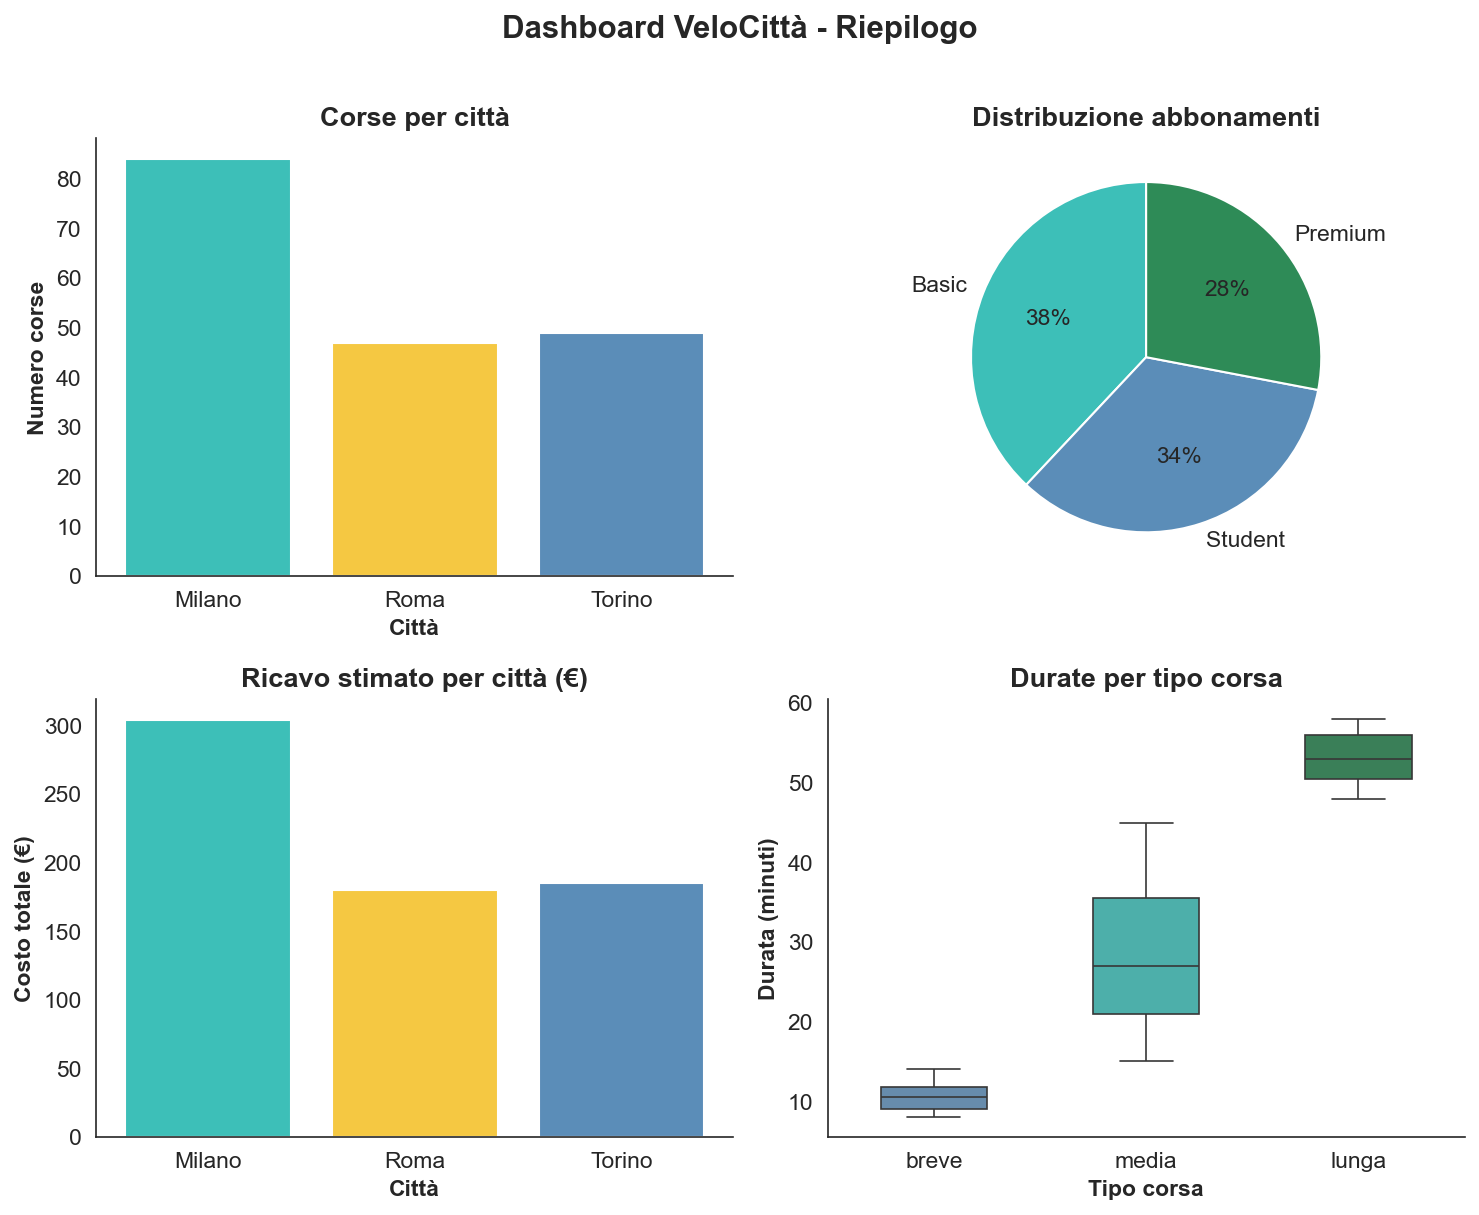
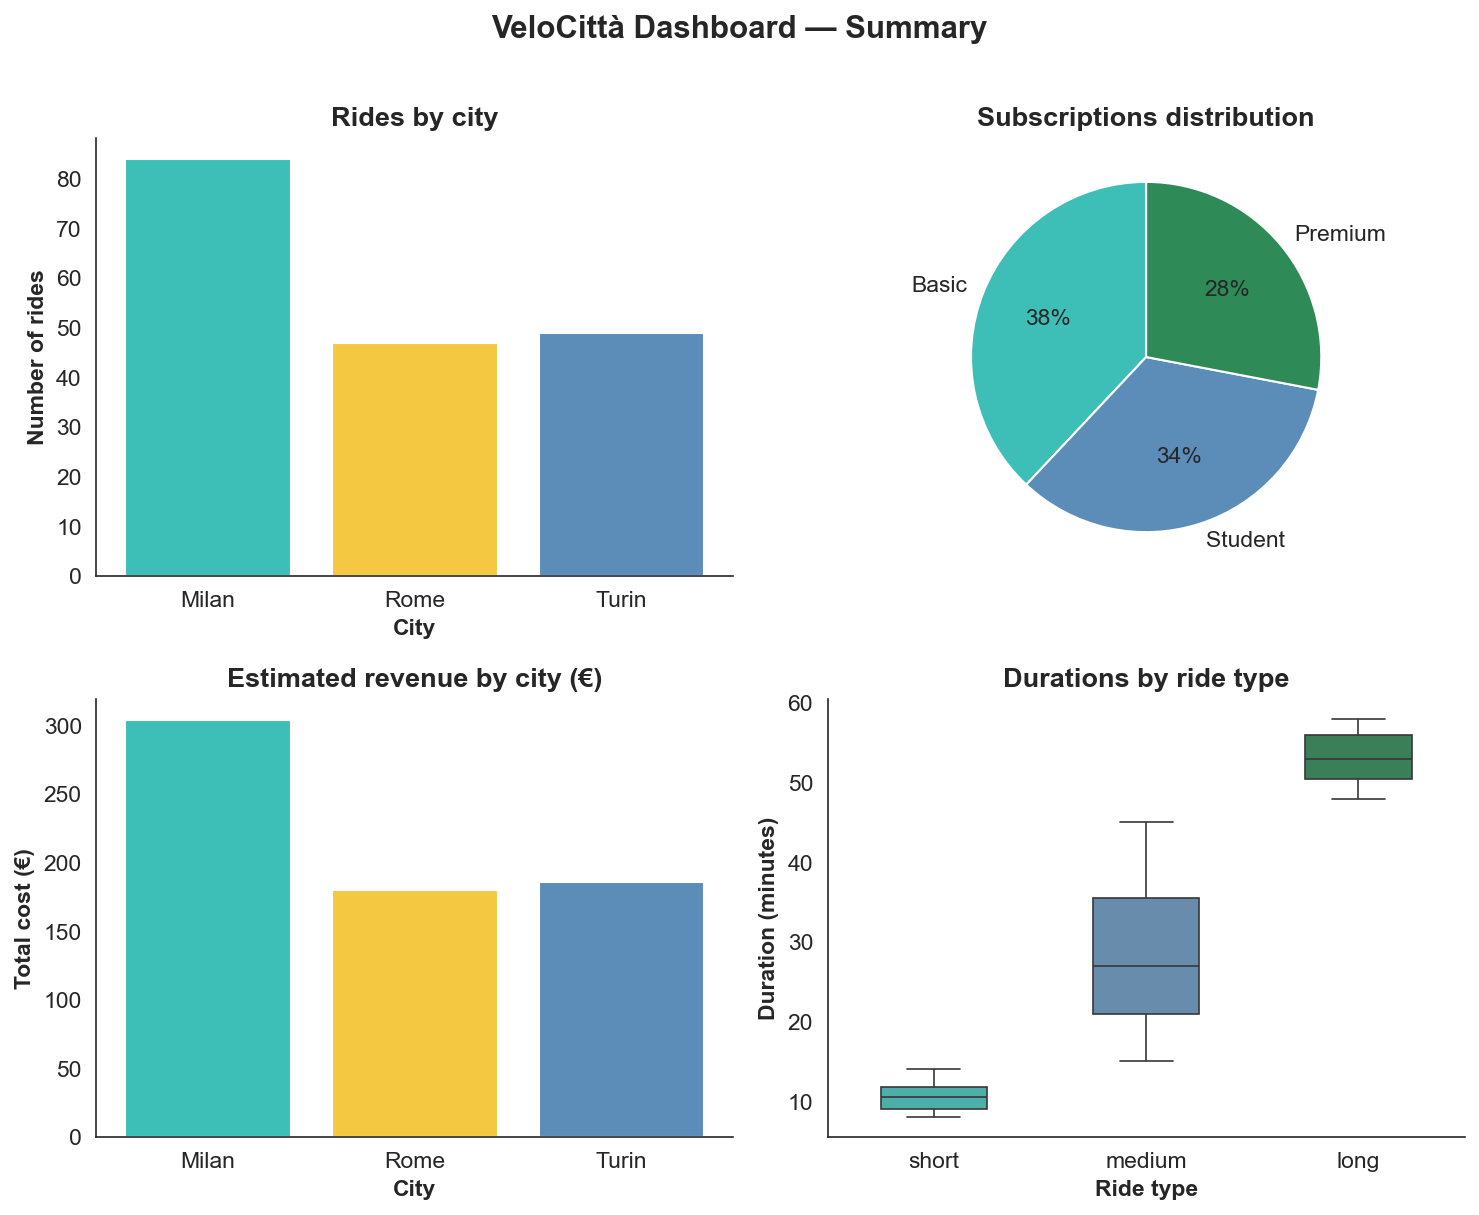
translation: task7_viz.py and related charts translated in English

diff --git a/01_python_scripts/task7_viz_english.py b/01_python_scripts/task7_viz_english.py
@@ -1,0 +1,292 @@
+"""
+Task 7 — Visualization
+ 
+Contents:
+    Chart 1  — Daily rides time series by city          → output/01_time_series.png
+    Chart 1b — Rides by day of the week                 → output/01b_rides_day_of_the_week.png
+    Chart 2  — Duration distribution by city            → output/02_durations_distribution.png
+    Chart 3  — Rides by time slot and bike type         → output/03_time_slots.png
+    Chart 4  — Scatter duration vs speed + trend line   → output/04_scatter_duration_speed.png
+    Chart 5  — Summary dashboard (2x2)                  → output/05_dashboard.png
+ 
+VeloCittà Palette:
+    Milan   #3DBFB8  teal
+    Rome    #F5C842  yellow
+    Turin   #5B8DB8  blue
+    neutral teal / blue / dark green (#2E8B57)
+    trend   #F5C842  yellow (contrast on scatter)
+"""
+
+import os
+import matplotlib.pyplot as plt
+import matplotlib.ticker as mticker
+import seaborn as sns
+import pandas as pd
+import numpy as np
+
+# import cleaned DataFrames from task6
+from task6_pandas import df_rides, df_bike, df_users, df_merged
+ 
+# -- [output folder] --
+os.makedirs("output", exist_ok=True)
+ 
+# -- [palette] --
+CITY_COLORS = {
+    "Milan": "#3DBFB8",
+    "Rome":  "#F5C842",
+    "Turin": "#5B8DB8",
+}
+NEUTRAL_COLORS = ["#3DBFB8", "#5B8DB8", "#2E8B57"]
+TREND_COLOR    = "#F5C842"
+
+# -- [global style] --
+# rcParams: uniform font size and title weight across all charts
+sns.set_style("white")              # white background, no grid
+plt.rcParams.update({
+    "figure.figsize":    (10, 6),
+    "font.size":         11,
+    "axes.titlesize":    13,
+    "axes.titleweight":  "bold",
+    "axes.labelweight":  "bold",
+    "axes.spines.top":   False,
+    "axes.spines.right": False,})
+
+# [ CHART 1 ] — daily rides time series by city
+# ↘ business question: how is service usage distributed over time across
+#                      the three cities? Are there weekly peaks or patterns?
+
+# -- [aggregate rides by date and city] --
+time_series = (
+    df_rides
+    .groupby(["ride_date", "city"])["ride_id"]
+    .count()
+    .reset_index()
+    .rename(columns={"ride_id": "n_rides"}))
+time_series["day"] = time_series["ride_date"].dt.day
+ 
+# -- [figure] --
+fig, ax = plt.subplots()
+ 
+for city, color in CITY_COLORS.items():
+    data = time_series[time_series["city"] == city].sort_values("ride_date")
+    ax.plot(data["day"], data["n_rides"],
+            label=city, color=color,
+            linewidth=2, marker="o", markersize=4)
+ 
+ax.set_title("Daily rides by city")
+ax.set_xticks(range(1, 16))         # one tick per day (1–15)
+ax.set_xlabel("Day (May 2026)")
+ax.set_ylabel("Number of rides")
+ax.legend(title="City", frameon=False)
+ax.yaxis.set_major_locator(mticker.MaxNLocator(integer=True))
+ 
+fig.tight_layout()
+fig.savefig("output/01_time_series.png", dpi=150)
+plt.close(fig)
+print("✓ Chart 1 saved")
+
+# [ CHART 1b ] — rides aggregated by day of the week
+# ↘ business question: which weekdays show the highest usage per city?
+
+# --[rides aggregated by day of the week and city]--
+day_order = ["Monday", "Tuesday", "Wednesday", "Thursday", "Friday", "Saturday", "Sunday"]
+ 
+agg_weekday = (
+    df_rides
+    .groupby(["weekday", "city"])["ride_id"]
+    .count()
+    .reset_index()
+    .rename(columns={"ride_id": "n_rides"}))
+ 
+# convert to Categorical with fixed order — prevents alphabetical sorting
+agg_weekday["weekday"] = pd.Categorical(
+    agg_weekday["weekday"],
+    categories=day_order,
+    ordered=True)
+agg_weekday = agg_weekday.sort_values("weekday")
+ 
+fig, ax = plt.subplots()
+ 
+sns.barplot(
+    data    = agg_weekday,
+    x       = "weekday",
+    y       = "n_rides",
+    hue     = "city",
+    palette = CITY_COLORS,
+    ax      = ax)
+ 
+ax.set_title("Rides by day of the week and city")
+ax.set_xlabel("Day")
+ax.set_ylabel("Number of rides")
+ax.legend(title="City", frameon=False)
+fig.tight_layout()
+fig.savefig("output/01b_rides_day_of_the_week.png", dpi=150)
+plt.close(fig)
+print("✓ Chart 1b saved")
+
+# [ CHART 2 ] — duration distribution by city
+# ↘ business question: does typical ride duration vary across cities? are there
+#                      distributional differences suggesting different usage habits?
+
+# --[creazione figura]--
+fig, ax = plt.subplots()
+ 
+sns.histplot(
+    data    = df_rides,
+    x       = "duration_minutes",
+    hue     = "city",
+    kde     = True,             # adds density curve
+    palette = CITY_COLORS,
+    alpha   = 0.45,             # transparency to read overlaps
+    bins    = 30,
+    ax      = ax)
+ 
+ax.set_title("Duration distribution by city")
+ax.set_xlabel("Duration (minutes)")
+ax.set_xticks(range(5, 65, 5))  # ticks every 5 minutes from 5 to 60
+ax.set_ylabel("Number of rides")
+legend = ax.legend_
+legend.set_title("City")
+legend.set_frame_on(False)
+ 
+fig.tight_layout()
+fig.savefig("output/02_durations_distribution.png", dpi=150)
+plt.close(fig)
+print("✓ Chart 2 saved")
+
+# [ CHART 3 ] — rides by time slot and bike type
+# ↘ business question: which time slot drives the most usage? does the bike type
+#                       (classic/electric) influence the preferred slot?
+
+# --[merge with df_bike to get bike type per ride]--
+df_rides_type = df_rides.merge(df_bike[["id_bike", "type"]], on="id_bike", how="left")
+ 
+slot_order = ["morning", "afternoon", "evening"]
+ 
+# aggregate rides by time slot and bike type
+bar_data = (
+    df_rides_type
+    .groupby(["time_slot", "type"])["ride_id"]
+    .count()
+    .reset_index()
+    .rename(columns={"ride_id": "n_rides"}))
+ 
+fig, ax = plt.subplots()
+ 
+sns.barplot(
+    data    = bar_data,
+    x       = "time_slot",
+    y       = "n_rides",
+    hue     = "type",
+    order   = slot_order,
+    palette = {"classic": "#3DBFB8", "electric": "#5B8DB8"},   # teal vs blue
+    ax      = ax)
+ 
+ax.set_title("Rides by time slot and bike type")
+ax.set_xlabel("Time slot")
+ax.set_ylabel("Number of rides")
+ax.legend(title="Bike type", frameon=False)
+fig.tight_layout()
+fig.savefig("output/03_time_slots.png", dpi=150)
+plt.close(fig)
+print("✓ Chart 3 saved")
+
+# [ CHART 4 ] — scatter duration vs speed with trend line
+# ↘ business question: are longer rides inversely related to speed?
+#                      are there outliers suggesting data anomalies?
+
+fig, ax = plt.subplots()
+ 
+ax.scatter(df_rides["duration_minutes"], df_rides["average_speed"],
+           color="#3DBFB8", alpha=0.7, s=50, edgecolors="none")
+ 
+# trend line via np.polyfit (degree 1 = linear)
+x            = df_rides["duration_minutes"].values
+y            = df_rides["average_speed"].values
+coefficients = np.polyfit(x, y, deg=1)     # returns [m, q] of line y = mx + q
+trend_line   = np.poly1d(coefficients)     # callable: trend_line(x) → y
+x_range      = np.linspace(x.min(), x.max(), 100)
+ 
+ax.plot(x_range, trend_line(x_range),
+        color=TREND_COLOR, linewidth=2, linestyle="--", label="Trend")
+ 
+ax.set_title("Average speed vs duration")
+ax.set_xlabel("Duration (minutes)")
+ax.set_ylabel("Average speed (km/h)")
+ax.legend(frameon=False)
+fig.tight_layout()
+fig.savefig("output/04_scatter_duration_speed.png", dpi=150)
+plt.close(fig)
+print("✓ Chart 4 saved")
+
+# [ CHART 5 ] — summary dashboard (2x2)
+# ↘ Overview: volume, subscriptions, revenue, durations
+
+fig, axes = plt.subplots(2, 2, figsize=(10, 8))
+fig.suptitle("VeloCittà Dashboard — Summary", fontsize=15, fontweight="bold", y=1.01)
+ 
+# -- [top left (↖): bar chart rides by city] --
+ax = axes[0, 0]
+rides_by_city = df_rides.groupby("city")["ride_id"].count()
+ 
+ax.bar(rides_by_city.index, rides_by_city.values,
+       color=[CITY_COLORS[c] for c in rides_by_city.index])
+ax.set_title("Rides by city")
+ax.set_xlabel("City")
+ax.set_ylabel("Number of rides")
+ax.yaxis.set_major_locator(mticker.MaxNLocator(integer=True))
+ 
+# -- [top right (↗): pie chart subscription distribution] --
+ax = axes[0, 1]
+subscriptions = df_users["subscription_type"].value_counts()
+ 
+ax.pie(
+    subscriptions.values,
+    labels     = subscriptions.index,
+    colors     = NEUTRAL_COLORS,
+    autopct    = "%1.0f%%",
+    startangle = 90,
+    wedgeprops = {"linewidth": 1, "edgecolor": "white"}
+)
+ax.set_title("Subscriptions distribution")
+ 
+# -- [bottom left (↙): bar chart estimated revenue by city] --
+ax = axes[1, 0]
+revenue_by_city = (
+    df_rides
+    .groupby("city")["estimated_cost"]
+    .sum()
+    .round(2)
+)
+ 
+ax.bar(revenue_by_city.index, revenue_by_city.values,
+       color=[CITY_COLORS[c] for c in revenue_by_city.index])
+ax.set_title("Estimated revenue by city (€)")
+ax.set_xlabel("City")
+ax.set_ylabel("Total cost (€)")
+ 
+# -- [bottom right (↘): boxplot durations by ride type] --
+ax = axes[1, 1]
+type_order = ["short", "medium", "long"]
+ 
+sns.boxplot(
+    data      = df_rides,
+    x         = "ride_type",
+    y         = "duration_minutes",
+    order     = type_order,
+    hue       = "ride_type",
+    palette   = dict(zip(type_order, NEUTRAL_COLORS)),
+    width     = 0.5,
+    linewidth = 0.8,
+    ax        = ax
+)
+ax.set_title("Durations by ride type")
+ax.set_xlabel("Ride type")
+ax.set_ylabel("Duration (minutes)")
+ 
+fig.tight_layout()
+fig.savefig("output/05_dashboard.png", dpi=150, bbox_inches="tight")
+plt.close(fig)
+print("✓ Chart 5 saved")
+ 
+print("\n✓ All charts saved in output/")

diff --git a/01_python_scripts/task1_utils.py b/01_python_scripts/task1_utils.py
@@ -106,7 +106,7 @@ def rides_classifier(duration_min: int) -> str:
     """
 
     # --[classification by conditions if/else]--
-    if duration_min < 0:
+    if duration_min <= 0:
         raise ValueError(f"duration_min '{duration_min}' must be greater than or equal to zero'")
         # ↘ check on the insertion of negative values → raise ValueError
 
@@ -167,10 +167,10 @@ def summary_rides(duration_list: list) -> dict:
         raise ValueError("duration_list can't be empty")
 
     # --[statistics calculation for summary]--
-    t_durata =  sum(duration_list)
-    avg =       sum(duration_list) / len(duration_list)
-    maximum =   max(duration_list)
-    minimum =   min(duration_list)
+    t_duration =    sum(duration_list)
+    avg =           sum(duration_list) / len(duration_list)
+    maximum =       max(duration_list)
+    minimum =       min(duration_list)
 
     # for categorization, reuse the 'rides_classifier()' function
     short, medium, long = 0, 0, 0
@@ -182,7 +182,7 @@ def summary_rides(duration_list: list) -> dict:
     
     # --[output dictionary creation]--
     summary = {
-        "total":    t_durata,
+        "total":    t_duration,
         "average":  avg,
         "max":      maximum,
         "min":      minimum,
